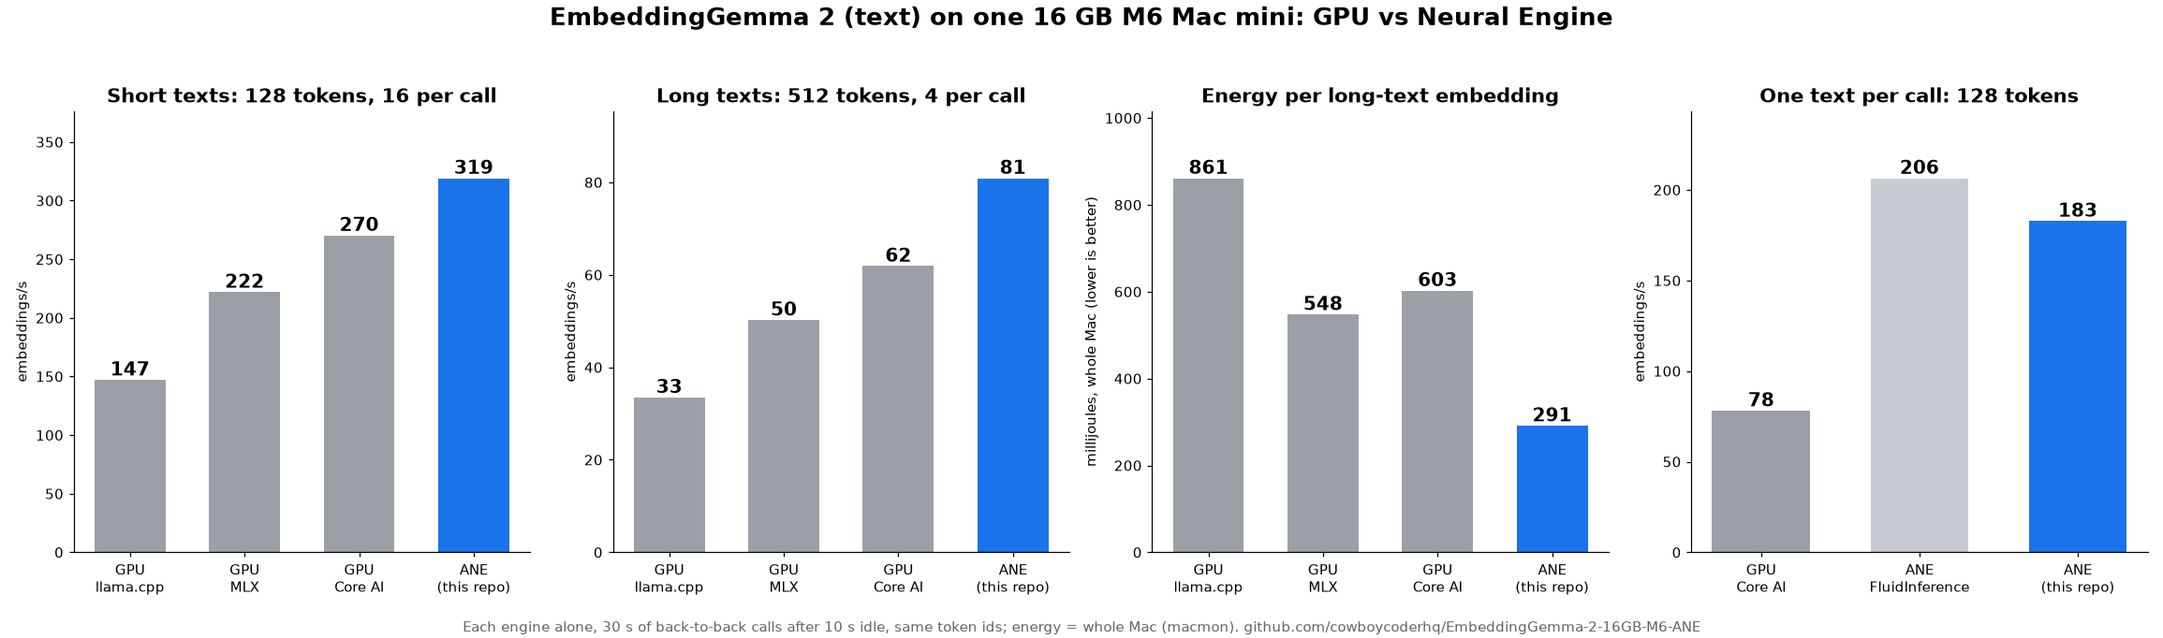
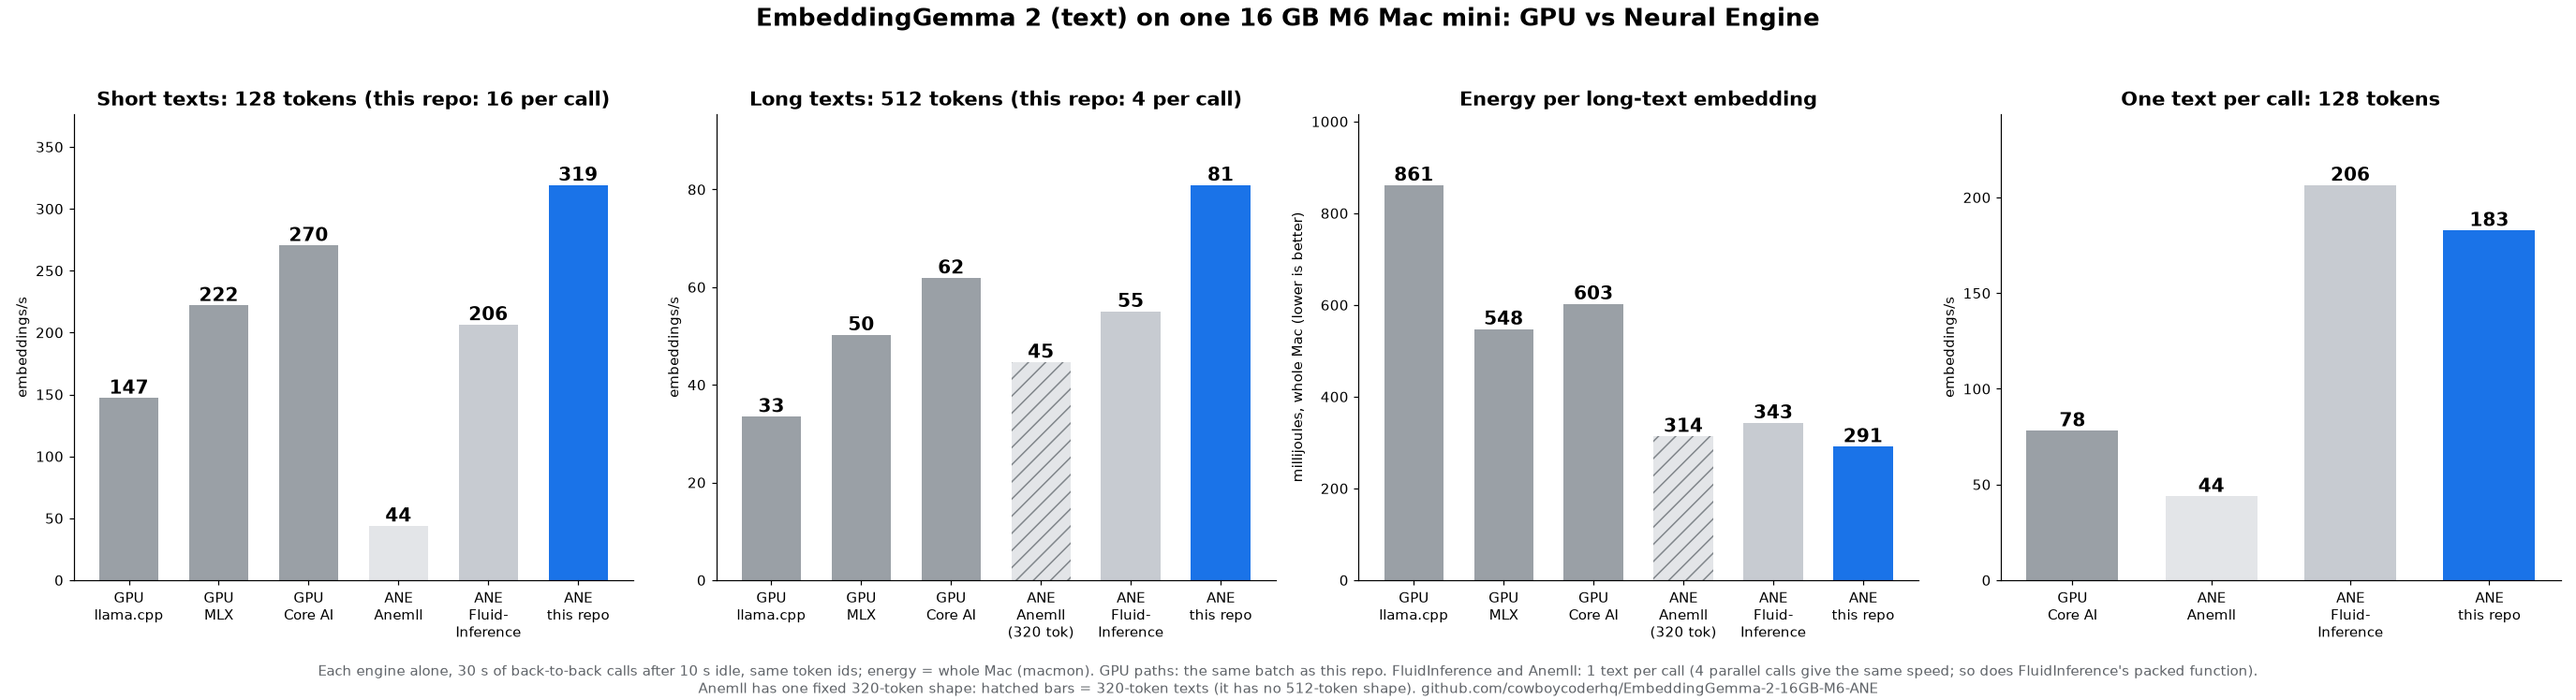
Chart: Anemll and FluidInference in every panel

diff --git a/scripts/chart.py b/scripts/chart.py
@@ -10,7 +10,8 @@ matplotlib.use("Agg")
 import matplotlib.pyplot as plt  # noqa: E402
 
 R = Path(__file__).resolve().parents[1] / "results" / "m6-release"
-GREY, LIGHT, BLUE = "#9aa0a6", "#c7cbd1", "#1a73e8"
+OTHERS = R.parent / "m6-others"
+GREY, LIGHT, PALE, BLUE = "#9aa0a6", "#c7cbd1", "#e3e5e8", "#1a73e8"
 GPU = [("llamacpp-q8", "GPU\nllama.cpp"), ("mlx-bf16", "GPU\nMLX"), ("coreai-gpu", "GPU\nCore AI")]
 
 
@@ -19,10 +20,16 @@ def load(prefix, shape):
     return json.loads(p.read_text()) if p.exists() else None
 
 
+def other(name):
+    return json.loads((OTHERS / f"{name}.json").read_text())
+
+
 def bars(ax, rows, title, ylabel, fmt, lower_better=False):
+    """rows: (label, value, colour[, hatch]). A hatch marks a bar measured at a different text length."""
     labels = [r[0] for r in rows]
     vals = [r[1] for r in rows]
-    b = ax.bar(range(len(vals)), vals, color=[r[2] for r in rows], width=0.62)
+    b = ax.bar(range(len(vals)), vals, color=[r[2] for r in rows], width=0.66,
+               hatch=[r[3] if len(r) > 3 else None for r in rows], edgecolor="#80868b", linewidth=0)
     for bar, v in zip(b, vals):
         ax.text(bar.get_x() + bar.get_width() / 2, bar.get_height(), fmt.format(v), ha="center", va="bottom",
                 fontsize=13, fontweight="bold")
@@ -34,27 +41,48 @@ def bars(ax, rows, title, ylabel, fmt, lower_better=False):
 
 
 def engine_rows(shape, key):
-    rows = [(label, load(p, shape)[key], GREY) for p, label in GPU if load(p, shape)]
-    return rows + [("ANE\n(this repo)", load("ane", shape)[key], BLUE)]
+    return [(label, load(p, shape)[key], GREY) for p, label in GPU if load(p, shape)]
+
+
+ANE = "ANE\nthis repo"
+FLUID = "ANE\nFluid-\nInference"
+ANEMLL = "ANE\nAnemll"
+ANEMLL_320 = "ANE\nAnemll\n(320 tok)"
 
 
 def main():
     out = Path(sys.argv[1])
-    fig, axes = plt.subplots(1, 4, figsize=(21, 6.2))
-    bars(axes[0], engine_rows("s128b16", "rate"), "Short texts: 128 tokens, 16 per call", "embeddings/s", "{:.0f}")
-    bars(axes[1], engine_rows("s512b4", "rate"), "Long texts: 512 tokens, 4 per call", "embeddings/s", "{:.0f}")
-    bars(axes[2], engine_rows("s512b4", "mac_mJ_per_emb"), "Energy per long-text embedding",
-         "millijoules, whole Mac", "{:.0f}", lower_better=True)
+    fluid128, fluid512 = load("fluid", "s128b1"), load("fluid", "s512b1")
+    anemll128, anemll320 = other("anemll-s320-128tok"), other("anemll-s320-320tok")
+    fig, axes = plt.subplots(1, 4, figsize=(25, 6.8))
+
+    short = engine_rows("s128b16", "rate") + [
+        (ANEMLL, anemll128["rate"], PALE), (FLUID, fluid128["rate"], LIGHT), (ANE, load("ane", "s128b16")["rate"], BLUE)]
+    bars(axes[0], short, "Short texts: 128 tokens (this repo: 16 per call)", "embeddings/s", "{:.0f}")
+
+    long = engine_rows("s512b4", "rate") + [
+        (ANEMLL_320, anemll320["rate"], PALE, "//"), (FLUID, fluid512["rate"], LIGHT),
+        (ANE, load("ane", "s512b4")["rate"], BLUE)]
+    bars(axes[1], long, "Long texts: 512 tokens (this repo: 4 per call)", "embeddings/s", "{:.0f}")
+
+    energy = engine_rows("s512b4", "mac_mJ_per_emb") + [
+        (ANEMLL_320, anemll320["mac_mJ_per_emb"], PALE, "//"), (FLUID, fluid512["mac_mJ_per_emb"], LIGHT),
+        (ANE, load("ane", "s512b4")["mac_mJ_per_emb"], BLUE)]
+    bars(axes[2], energy, "Energy per long-text embedding", "millijoules, whole Mac", "{:.0f}", lower_better=True)
+
     one = [("GPU\nCore AI", load("coreai-gpu", "s128b1")["rate"], GREY),
-           ("ANE\nFluidInference", load("fluid", "s128b1")["rate"], LIGHT),
-           ("ANE\n(this repo)", load("ane", "s128b1")["rate"], BLUE)]
+           (ANEMLL, anemll128["rate"], PALE), (FLUID, fluid128["rate"], LIGHT),
+           (ANE, load("ane", "s128b1")["rate"], BLUE)]
     bars(axes[3], one, "One text per call: 128 tokens", "embeddings/s", "{:.0f}")
+
     fig.suptitle("EmbeddingGemma 2 (text) on one 16 GB M6 Mac mini: GPU vs Neural Engine", fontsize=17,
                  fontweight="bold", y=0.99)
-    fig.text(0.5, 0.01, "Each engine alone, 30 s of back-to-back calls after 10 s idle, same token ids; energy = whole "
-             "Mac (macmon). github.com/cowboycoderhq/EmbeddingGemma-2-16GB-M6-ANE",
+    fig.text(0.5, 0.035, "Each engine alone, 30 s of back-to-back calls after 10 s idle, same token ids; energy = whole "
+             "Mac (macmon). GPU paths: the same batch as this repo. FluidInference and Anemll: 1 text per call (4 parallel calls "
+             "give the same speed; so does FluidInference's packed function).", ha="center", fontsize=10, color="#5f6368")
+    fig.text(0.5, 0.01, "Anemll has one fixed 320-token shape: hatched bars = 320-token texts (it has no 512-token shape). github.com/cowboycoderhq/EmbeddingGemma-2-16GB-M6-ANE",
              ha="center", fontsize=10, color="#5f6368")
-    fig.tight_layout(rect=(0, 0.04, 1, 0.95))
+    fig.tight_layout(rect=(0, 0.06, 1, 0.95))
     out.parent.mkdir(parents=True, exist_ok=True)
     fig.savefig(out, dpi=110)
     print("saved", out)
